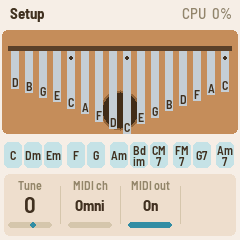
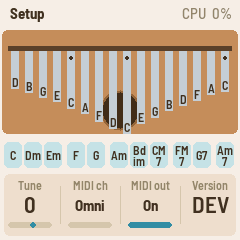
Setup: the version, in the knob row's empty fourth place
GLO's Setup page shows the firmware's version where a fourth knob would be: "0.4.1" in the big face
with "BETA" small beneath, or "DEV" on a build that isn't a release. Until now it was only on the
splash screen.

Changed region(s): [[0.7875, 0.7583, 0.9625, 0.9042]]

diff --git a/web/emu/index.html b/web/emu/index.html
@@ -151,7 +151,7 @@ kbd { font: 600 .85em ui-monospace, Menlo, monospace; background: var(--card); b
       <li><b>FX</b> Space: reverb, size, delay, time → Color: tape, lo-fi, chorus, filter.</li>
       <li><b>LFO</b> Grain: level, size, density, pitch → Spread: spray, feedback, width.</li>
       <li><b>SEL</b> Keys: layout, then scale, key and black-key mode (Tine) or transpose and octave (Keyboard) → Play: strum, octave.</li>
-      <li><b>SEQ</b> Pattern: pattern, tempo (or hold <b>ARP</b>). <b>GLO</b> Setup: tune, MIDI channel, MIDI out. <b>EDIT</b> steps through every page.</li>
+      <li><b>SEQ</b> Pattern: pattern, tempo (or hold <b>ARP</b>). <b>GLO</b> Setup: tune, MIDI channel, MIDI out, and the version. <b>EDIT</b> steps through every page.</li>
     </ul>
   </div>
   <div>

diff --git a/firmware/src/app/ui.c b/firmware/src/app/ui.c
@@ -849,6 +849,19 @@ static void draw_knobs(void)
         char t[16];
         if (i)
             cv_rect(x, 14, 1, KNB_H - 30, K_LINE);
+        if (k == K_NONE && ui.view == V_SETUP && i == 3) {  /* the version, "0.4.1" over "BETA" (or "DEV") */
+            int n = 0;
+            while (OM_VERSION[n] && OM_VERSION[n] != ' ' && n < 15) {
+                t[n] = OM_VERSION[n];
+                n++;
+            }
+            t[n] = 0;
+            text_c(cx, 6, &FONT_XS, "Version", K_DIM);
+            text_c(cx, text_w(&FONT_M, t) > 56 ? 26 : 22, text_w(&FONT_M, t) > 56 ? &FONT_B : &FONT_M, t, K_TEXT);
+            if (OM_VERSION[n])
+                text_c(cx, 48, &FONT_XS, OM_VERSION + n + 1, K_DIM);
+            continue;
+        }
         if (k == K_NONE)
             continue;
         lo = km_param_info(k)->lo;

diff --git a/README.md b/README.md
@@ -191,7 +191,7 @@ has and which one you're on.
 | **LFO**                           | Grain → Spread   | The granular cloud; its scatter, the echoes' feedback, the stereo width                                                                                                            |
 | **SEL**                           | Keys → Play      | The layout, scale, key, black keys; the chord roll and the octave                                                                                                                  |
 | **SEQ**                           | Pattern          | The mbira pattern's settings                                                                                                                                                       |
-| **GLO**                           | Setup            | Tuning, MIDI                                                                                                                                                                       |
+| **GLO**                           | Setup            | Tuning, MIDI, the version                                                                                                                                                          |
 | **EDIT**                          |                  | Every page in turn                                                                                                                                                                 |
 | **ARP**                           |                  | **Tap:** the mbira pattern on and off (see [Patterns](#patterns)). Lit while it runs, dark on each beat. **Hold** (half a second): the Pattern page, without turning it on or off. |
 | **PLAY**                          |                  | Freeze the grain cloud (it keeps playing what's in its buffer); again to go live. Lit while frozen.                                                                                |
@@ -316,7 +316,8 @@ centre.
 | MIDI out | Off, On (On)      | Send the keys as MIDI notes     |
 
 The Setup page's header shows the audio load (**CPU %**) and counts any dropouts, so you can check
-the firmware's load on the hardware.
+the firmware's load on the hardware. Where a fourth knob would be, it shows the firmware's
+**version** (DEV on a build that isn't a release).
 
 ### The screen
 
